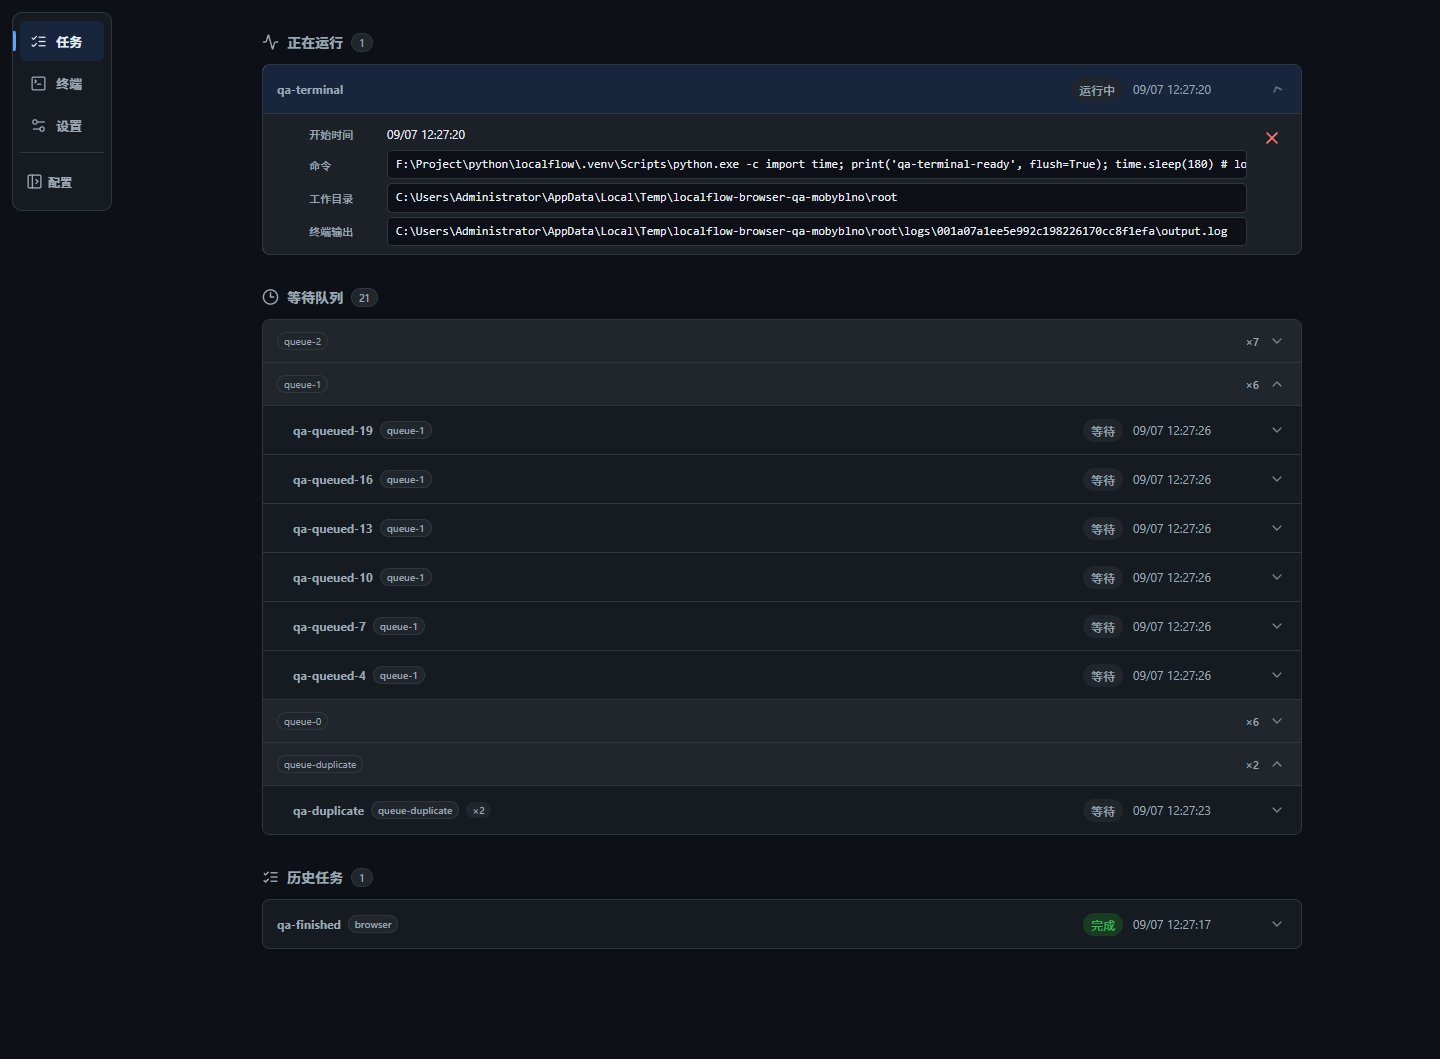
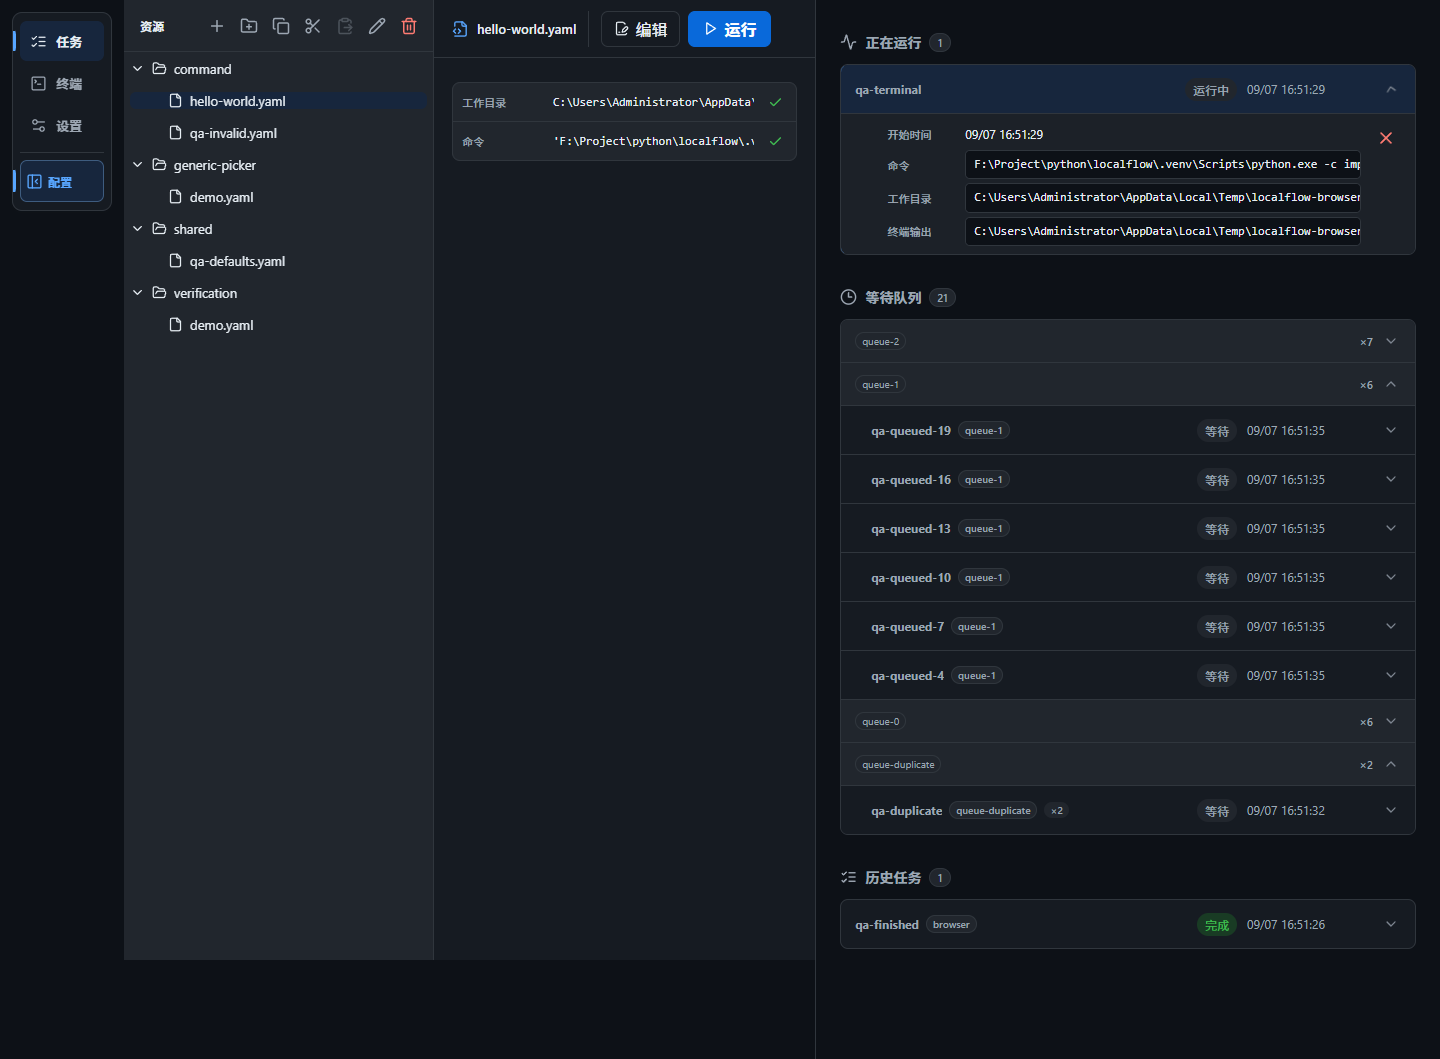
fix: refine configuration defaults and plugin extensions

diff --git a/frontend/e2e/localflow.spec.js b/frontend/e2e/localflow.spec.js
@@ -352,7 +352,7 @@ test("plugin configuration console remains concise and operable in Edge", async 
   await expect(page.getByText("暂无任务", { exact: true })).toBeVisible();
   const runPanelToggle = page.getByRole("button", { name: "配置" });
   await expect(runPanelToggle)
-    .toHaveAttribute("aria-expanded", "false");
+    .toHaveAttribute("aria-expanded", "true");
   await expect(runPanelToggle)
     .toHaveAttribute("aria-controls", "run-panel");
   await expect(runPanelToggle).toHaveText("配置");
@@ -795,13 +795,17 @@ test("plugin configuration console remains concise and operable in Edge", async 
     page.locator('[data-file="config/command/qa-command.yaml"]'),
   ).toBeVisible();
   expect(fs.readFileSync(path.join(qaRoot, "config", "command", "qa-command.yaml"), "utf8")).toBe("");
+  const saveButton = page.getByRole("button", { name: "保存", exact: true });
+  await expect(saveButton).toBeDisabled();
   const blankEditor = page.locator(".monaco-editor").first();
   await blankEditor.locator(".view-lines").click({ position: { x: 24, y: 12 } });
   await page.keyboard.insertText("broken: *missing");
   await expect(blankEditor.locator(".view-lines")).toContainText("broken: *missing");
   await expect(page.locator(".config-diagnosis")).toBeVisible();
-  await page.getByRole("button", { name: "保存", exact: true }).click();
+  await expect(saveButton).toBeEnabled();
+  await saveButton.click();
   await expect(page.getByRole("status")).toContainText("已保存");
+  await expect(saveButton).toBeDisabled();
   expect(fs.readFileSync(path.join(qaRoot, "config", "command", "qa-command.yaml"), "utf8")).toContain("broken: *missing");
   await page.getByRole("button", { name: "重命名" }).click();
   const rename = page.locator(".tree-node input");
@@ -1189,6 +1193,8 @@ test("plugin configuration console remains concise and operable in Edge", async 
           "case-delayed-press-repeat",
           "config-root-only",
           "config-free-save-inline-syntax",
+          "config-default-expanded",
+          "config-dirty-save",
           "terminal-bounded-archive-search",
           "case-marquee-scope-only",
           "case-group-relative-edit",

diff --git a/frontend/src/App.jsx b/frontend/src/App.jsx
@@ -1877,7 +1877,11 @@ function Config({ theme }) {
                     </button>
                   )}
                   {mode === "edit" ? (
-                    <button className="primary" onClick={save}>
+                    <button
+                      className="primary"
+                      disabled={!file || content === baseContentRef.current}
+                      onClick={save}
+                    >
                       保存
                     </button>
                   ) : (
@@ -2271,7 +2275,7 @@ export default function App() {
   const [error, setError] = useState("");
   const [theme, setTheme] = useTheme();
   const [runOpen, setRunOpen] = useState(
-    () => sessionStorage.getItem("localflow-run-panel") === "open",
+    () => sessionStorage.getItem("localflow-run-panel") !== "closed",
   );
   const refresh = useCallback(async () => {
     try {

diff --git a/frontend/e2e/compatibility.spec.js b/frontend/e2e/compatibility.spec.js
@@ -87,8 +87,6 @@ test("Ubuntu browser can operate the released web console", async ({
 
   await page.getByRole("tab", { name: "任务" }).click();
   const runPanelToggle = page.getByRole("button", { name: "配置" });
-  await expect(runPanelToggle).toHaveAttribute("aria-expanded", "false");
-  await runPanelToggle.click();
   await expect(runPanelToggle).toHaveAttribute("aria-expanded", "true");
   await expect(
     page.locator('[data-file="config/command/hello-world.yaml"]'),

diff --git a/src/localflow/plugins.py b/src/localflow/plugins.py
@@ -230,17 +230,19 @@ class PluginRegistry:
         required = {"plugin", *getattr(instance, "required_common_fields", set())}
         definitions = dict(common.get("$defs", {}))
         config_model = getattr(instance, "config_model", None)
+        additional_properties: bool | dict[str, Any] = True
         if config_model is not None:
             plugin_schema = config_model.model_json_schema()
             properties.update(plugin_schema.get("properties", {}))
             required.update(plugin_schema.get("required", []))
             definitions.update(plugin_schema.get("$defs", {}))
+            additional_properties = plugin_schema.get("additionalProperties", False)
         schema: dict[str, Any] = {
             "title": f"{name} configuration",
             "type": "object",
             "properties": properties,
             "required": sorted(required),
-            "additionalProperties": config_model is None,
+            "additionalProperties": additional_properties,
         }
         if definitions:
             schema["$defs"] = definitions

diff --git a/tests_v2/test_config.py b/tests_v2/test_config.py
@@ -97,6 +97,18 @@ def test_config_imports_and_layered_diagnosis(root: Path) -> None:
     assert not any("${case}" in item or "${seed}" in item for item in invalid.errors)
     assert not invalid.valid and any("case_directory" in item for item in invalid.errors)
     assert any("working_directory" in item for item in invalid.errors)
+    extensible = diagnose_config(
+        {
+            "plugin": "verification",
+            "case_directory": "cases",
+            "working_directory": ".",
+            "command": "true",
+            "root": "site-owned-simulation-root",
+            "extra_inputs": {"wave": "dump.fsdb"},
+        },
+        plugins,
+    )
+    assert extensible.runnable, extensible.errors
 
 
 def test_config_api_exposes_only_runnable_configuration_tree(admin: TestClient, root: Path) -> None:

diff --git a/tests_v2/test_plugins.py b/tests_v2/test_plugins.py
@@ -59,7 +59,7 @@ async def test_verification_config_discovers_one_level_files_and_directories(roo
     schema = verification["api"]["configuration_schema"]
     assert {"plugin", "command", "case_directory"}.issubset(schema["properties"])
     assert {"plugin", "working_directory", "command"}.issubset(schema["required"])
-    assert schema["additionalProperties"] is False
+    assert schema["additionalProperties"] is True
     assert {
         "variables",
         "labels",

diff --git a/plugins/verification.py b/plugins/verification.py
@@ -37,7 +37,9 @@ def evaluate_vcs_text(text: str) -> tuple[str, int]:
 
 
 class VerificationConfig(BaseModel):
-    model_config = ConfigDict(extra="forbid")
+    # Verification configurations often carry simulator-specific values that
+    # are consumed by command interpolation or a site-local plugin extension.
+    model_config = ConfigDict(extra="allow")
 
     case_directory: str | None = None
     case_root: str | None = None

diff --git a/tools/check_quality.py b/tools/check_quality.py
@@ -52,6 +52,8 @@ BROWSER_ASSERTIONS = {
     "case-delayed-press-repeat",
     "config-root-only",
     "config-free-save-inline-syntax",
+    "config-default-expanded",
+    "config-dirty-save",
     "terminal-bounded-archive-search",
     "case-marquee-scope-only",
     "case-group-relative-edit",

diff --git a/docs/quality-metrics.md b/docs/quality-metrics.md
@@ -61,7 +61,7 @@
 - 状态不能只靠颜色表达：文件名保持中性，普通参数、共享片段、可运行配置和错误配置使用不同图标、可访问名称和行内诊断。
 - 主导航只有任务、终端、设置；运行在任务页内以左侧选项卡组下方固定的“配置” disclosure 动作开合，按钮始终显示文字和方向图标、开合时不换位，插件与 API 说明只存在于项目文档。
 - 终态任务继续出现在终端页并明确标为只读，保留 xterm 的 ANSI、选择、滚动和链接语义；成熟查找条提供 Ctrl/Cmd+F、匹配计数、前后定位、大小写、全词、正则与首尾跳转，写入控件和服务端写能力同时关闭。
-- 运行面板默认折叠；1440px 展开后位于任务左侧，1100px 以下置于任务上方，390px 内部资源树与配置面板上下排列。展开/收起只需一次操作，必须保留当前标签页的文件、模式和输入，并在全部三档视口保持零页面横向溢出。
+- 运行面板在全新会话中默认展开，用户主动收起后在该会话保持收起；1440px 展开后位于任务左侧，1100px 以下置于任务上方，390px 内部资源树与配置面板上下排列。展开/收起只需一次操作，必须保留当前标签页的文件、模式和输入，并在全部三档视口保持零页面横向溢出。
 - 当前文件名旁使用一个就近上下文操作组，编辑与运行都显示短标签和图标；不得把常用操作推到工作台远端或只用 Play 图标表达运行，界面不重复配置扩展名。
 - 设置使用一个统一列表，标签与控件在同一基线；桌面和 390px 视口的时间校准不得无故断成两行。
 - 网页退出从设置页只需一次直接点击和一次必要确认，界面税为零。确认框默认聚焦取消，Esc 恢复触发焦点，Portal 模态层不改变底层几何，确认期间只允许一次请求。
@@ -104,3 +104,4 @@
 | QM-043 Case 通用步进器 | 出现滚轮改值、零值减少按钮、普通点击跨多步、长按无延迟/不停止、运行后未清零 | Edge 公共入口行为测试与 `quality/operator-interaction-contract.json` |
 | QM-044 自由配置工作区 | 出现 plugins/冗余根或文件分类、新建模板、语义诊断阻止保存、缺少拖放/键盘移动 | workspace API/仓储测试与 Edge 资源树旅程 |
 | QM-045 大日志与插件审查 | xterm 注入状态文字、整份日志进浏览器、无区间/全局搜索、日志路径按控制器 cwd、未来日志缺失报错 | 终端 HTTP/WebSocket/搜索测试、验证插件预演与真实副作用测试 |
+| QM-046 配置初态、脏保存与可扩展插件配置 | 无偏好时面板折叠、未修改仍可保存、修改后不可保存、保存成功仍可保存，或验证插件拒绝 `root`/`extra_inputs` | Edge disclosure/保存行为、插件诊断与 schema 测试、交互机器契约 |

diff --git a/skills/localflow-project/references/configuration-workbench.md b/skills/localflow-project/references/configuration-workbench.md
@@ -2,7 +2,7 @@
 
 ## Decision
 
-Use the existing semantic disclosure button, resource tree, Monaco editor, and task workspace. Name the control `配置`. On wide screens, place the disclosed configuration workbench on the left and the task status pane on the right; below the existing breakpoint, stack configuration before tasks. Put labeled `编辑` and `运行` actions immediately after the selected file name in one contextual action group.
+Use the existing semantic disclosure button, resource tree, Monaco editor, and task workspace. Name the control `配置`. Default a fresh browser session to expanded; preserve an explicit user collapse for that session. On wide screens, place the disclosed configuration workbench on the left and the task status pane on the right; below the existing breakpoint, stack configuration before tasks. Put labeled `编辑` and `运行` actions immediately after the selected file name in one contextual action group. Disable Save when editor text exactly equals the loaded base version; syntax or plugin validity never controls Save.
 
 The terminal buffer contains only task log/process bytes. Connection, live/read-only state, and replay state belong to the terminal page header and accessibility status, never `xterm.write` or `xterm.writeln`.
 
@@ -21,9 +21,10 @@ WAI-ARIA disclosure supplies the interaction contract (`button`, `aria-expanded`
 
 - At 1440 px, `run-panel.right <= task-pane.left`, their top edges align, and document overflow is zero.
 - At 760 px, configuration ends before tasks begin; at 390 px, explorer ends before editor begins and overflow is zero.
-- The disclosure has the exact visible name `配置`, retains one DOM location, and reports state through `aria-expanded`/`aria-controls`.
+- The disclosure has the exact visible name `配置`, starts expanded when no preference exists, retains one DOM location, and reports state through `aria-expanded`/`aria-controls`.
 - The selected file name and contextual action group are adjacent; `编辑` and `运行` are both visible labels and require no menu/navigation step.
 - Closing/reopening and leaving/returning to Tasks preserves file, mode, and unfinished inputs.
+- Save is disabled before an edit and immediately after a successful save, but enabled for any byte-changing edit even when diagnosis fails.
 - Live and terminal-state xterm text contains the task bytes and contains no application-authored connection/replay sentences.
 
 Fault mutants restore right-side grid order, the long label, icon-only run, remote `space-between` actions, or synthetic `term.writeln` status. Each must make the browser gate fail.

diff --git a/docs/plugins.md b/docs/plugins.md
@@ -59,7 +59,7 @@ api_inputs = {
 - `config_model`：只描述插件专属字段的 Pydantic 模型；建议 `extra="forbid"`，使拼错字段立即出现在配置诊断中。
 - `input_model`：只描述本次运行输入的 Pydantic 模型；字段必须对应 `run_fields` 及其次数辅助字段。
 
-公共字段由核心统一校验，不要在 `config_model` 中重复声明。已有的第三方插件若未提供 `config_model` 仍可装载，但配置页只能完成公共字段与插件存在性诊断，并会显示能力降级警告；新增插件应提供模型，才能形成完整 API schema。
+公共字段由核心统一校验，不要在 `config_model` 中重复声明。已有的第三方插件若未提供 `config_model` 仍可装载，但配置页只能完成公共字段与插件存在性诊断，并会显示能力降级警告；新增插件应提供模型，才能形成完整 API schema。模型的 `extra` 策略是插件运行合同：字段集合封闭时使用 `forbid`，需要保留站点、仿真器或命令插值自定义值时使用 `allow`；宿主生成的 JSON Schema 必须沿用该策略，不能一律写成 `additionalProperties: false`。内置验证插件采用 `allow`，因此 `root`、`extra_inputs` 等额外配置会原样进入解析值，而网页本次运行请求仍只允许 `run_fields`。
 
 ## 字段与候选项发现
 
